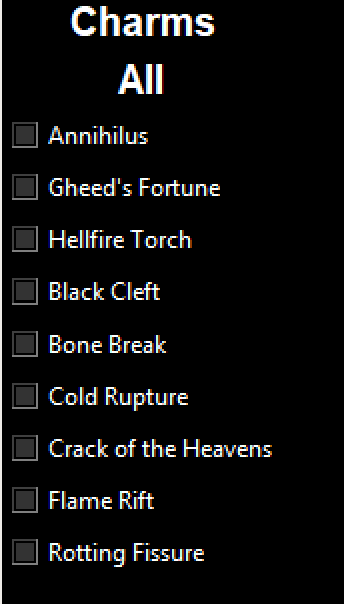
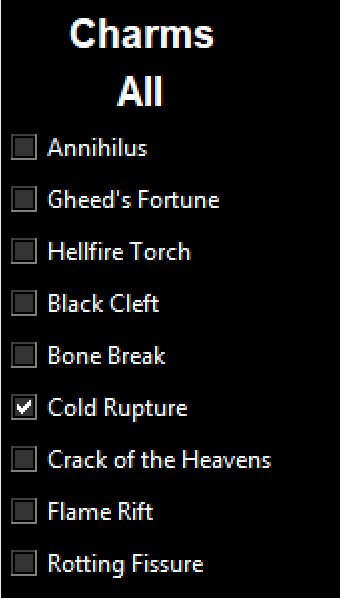
Update docs

Changed region(s): [[0.0294, 0.1806, 0.7941, 0.9632], [0.2059, 0.0, 0.6471, 0.1806]]

diff --git a/README.md b/README.md
@@ -270,7 +270,7 @@ After this, insert the following:
 
 </details>
 
-Save your `grail.json`, and start the app again. The charms should appear in the Grail controller:
+Save your `grail.json`, and start the app again. Open _Grail / Grail controller_, navigate to _Unique Other_, check one of the sundering charms, then close and re-open the Grail controller again. If you've done everything right, the checked charm should remain checked:
 
 ![sundering charms](https://github.com/noobient/MF_run_counter/blob/master/media/sundering.png?raw=true)
 
